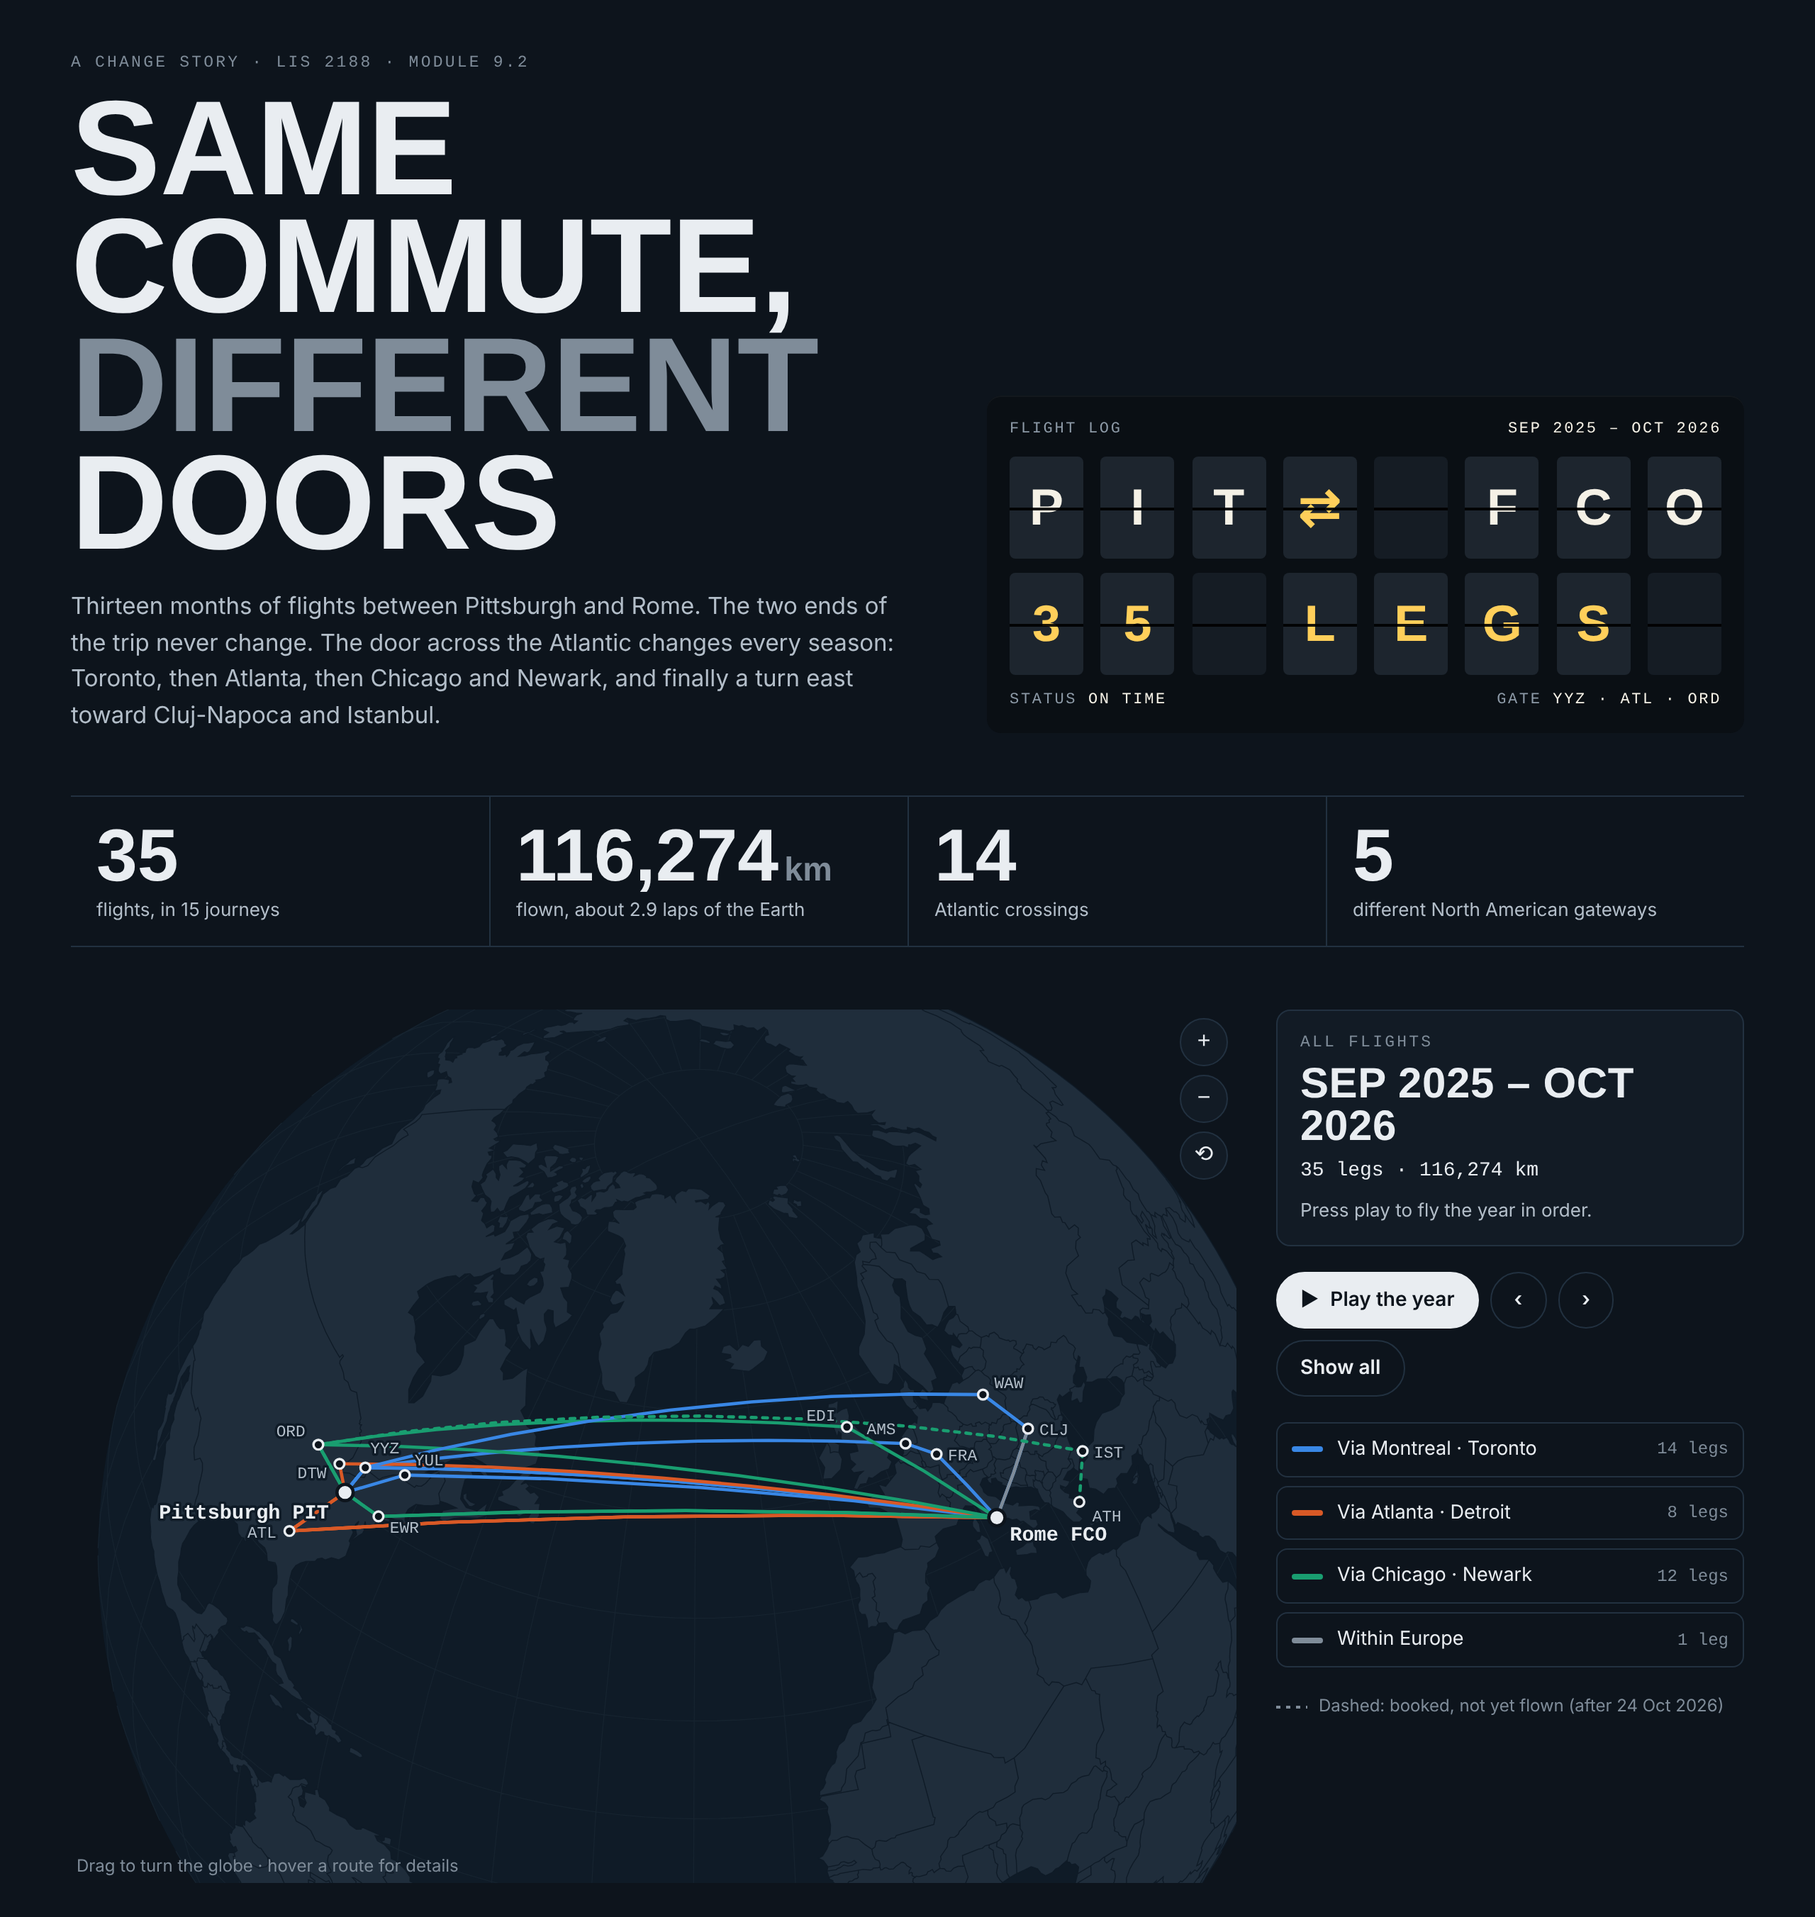
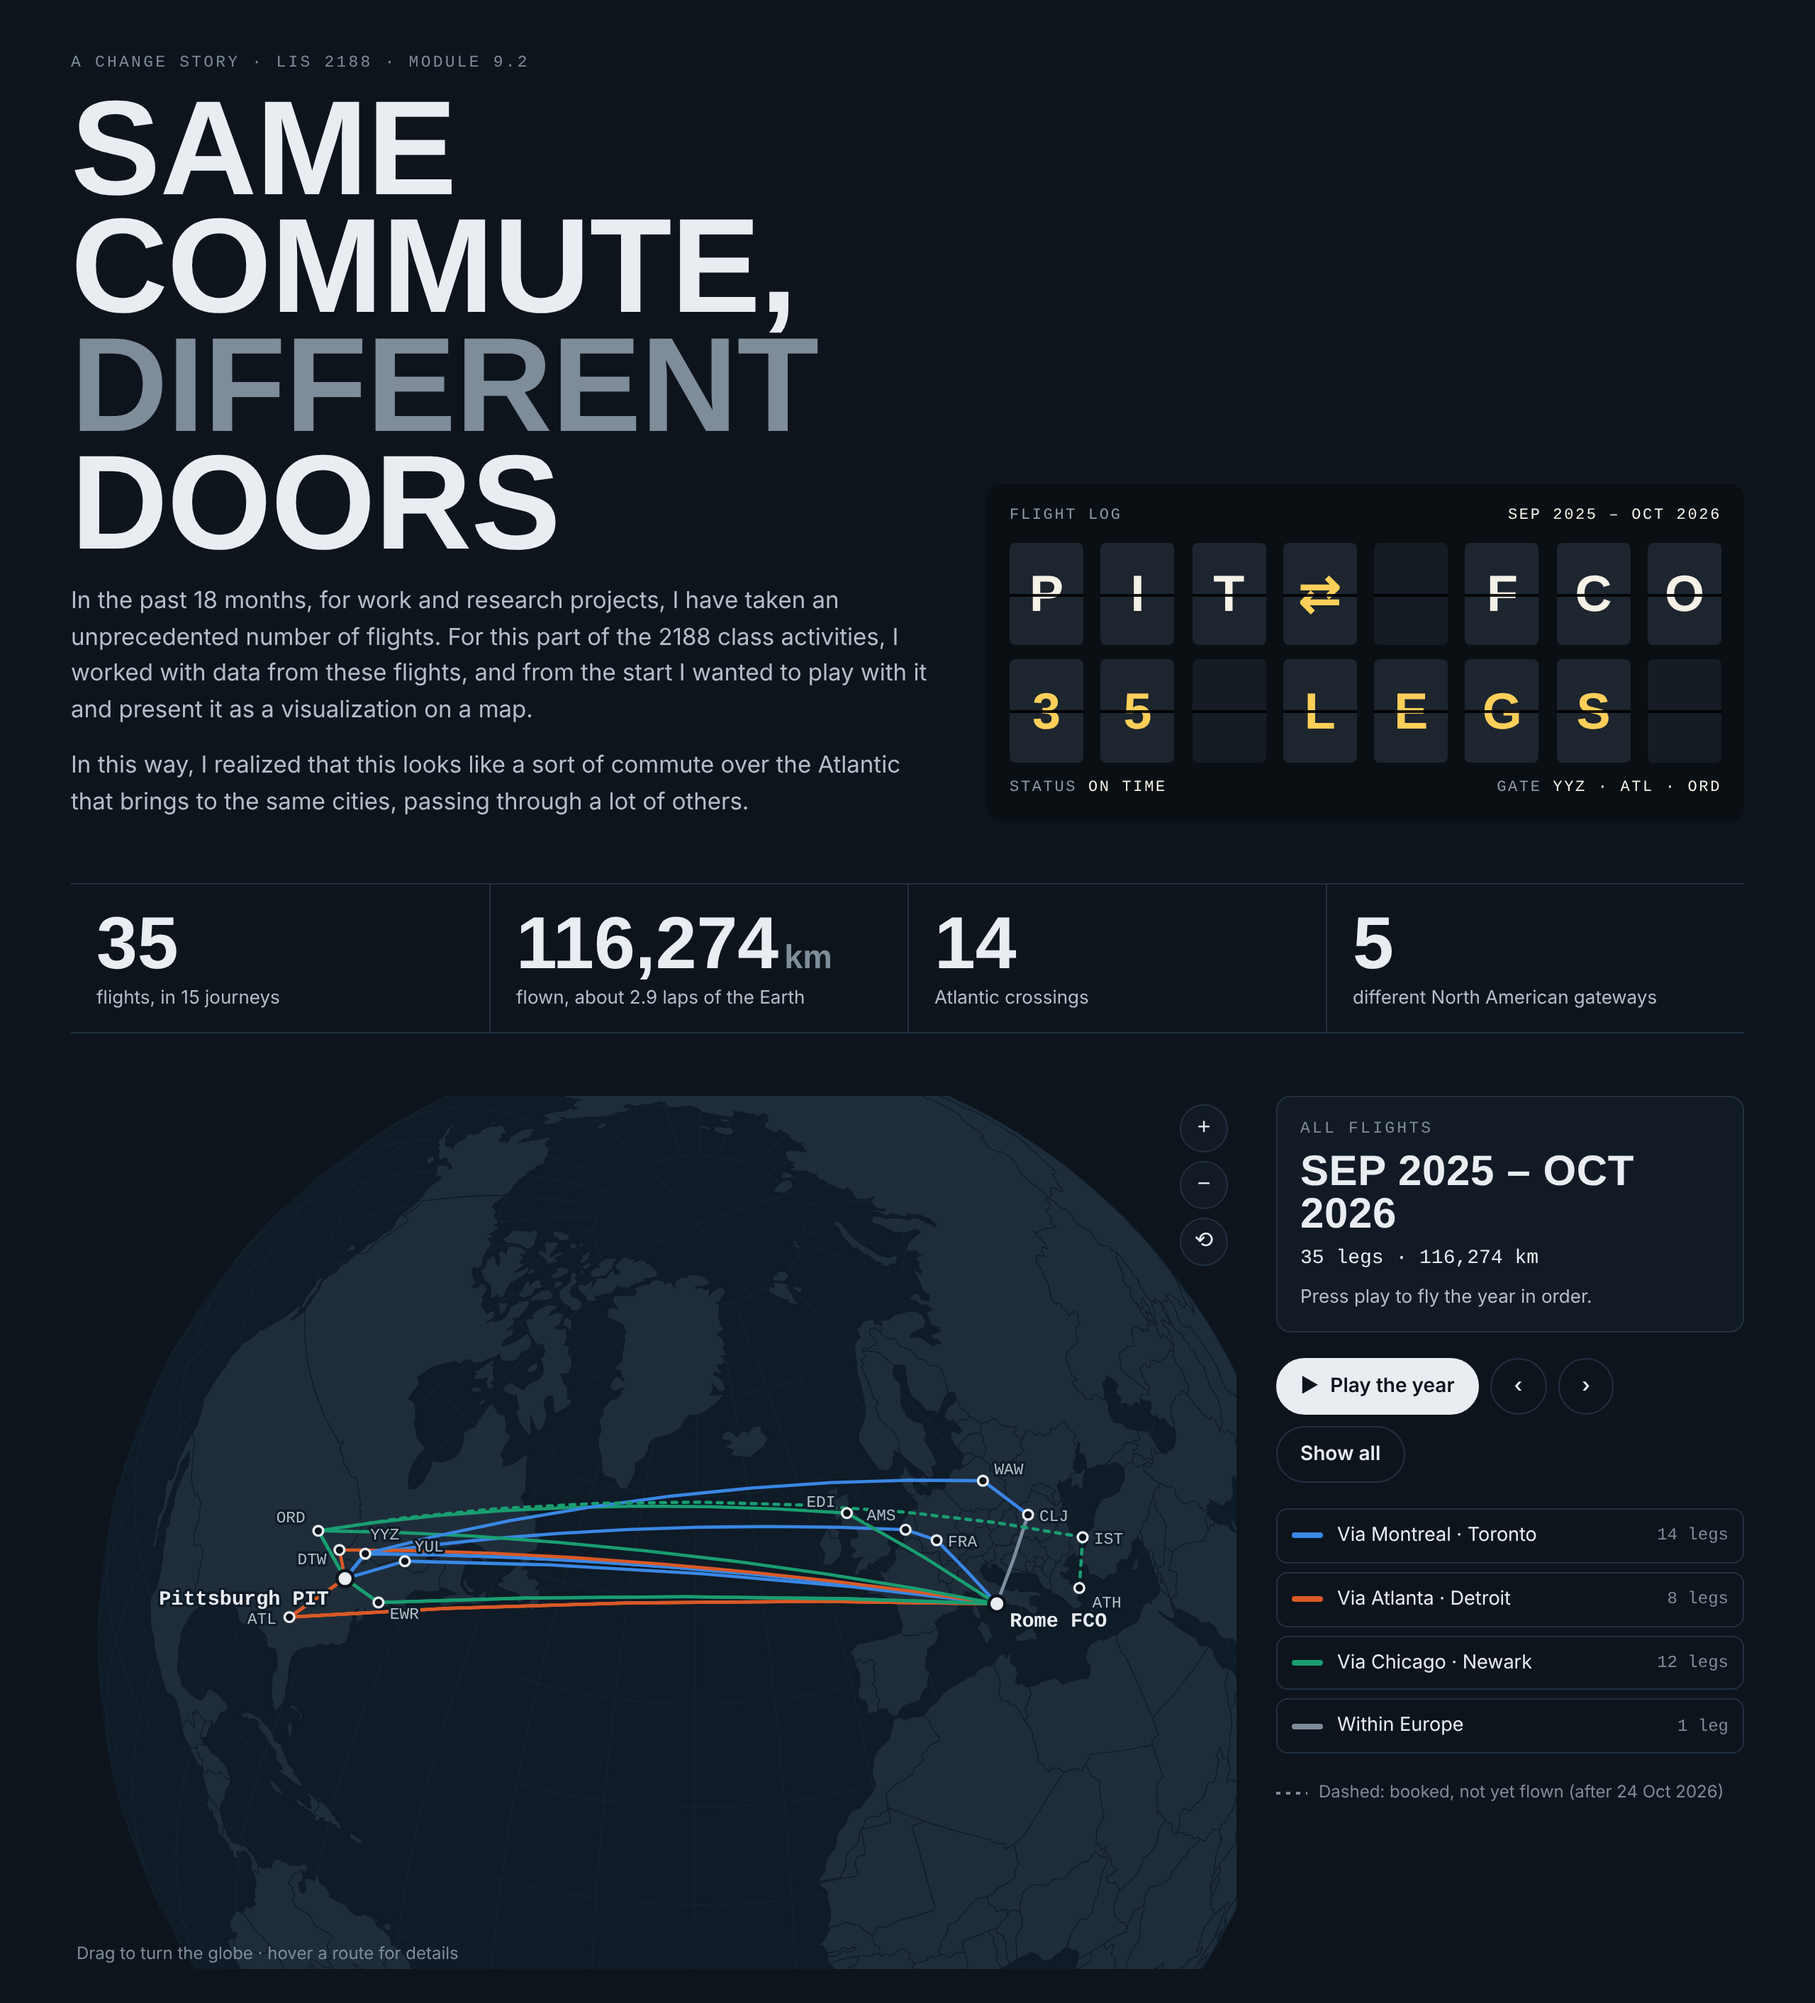
Replace intro text and remove the calendar section
Claude-Session: https://claude.ai/code/session_012EFSwt5ocAdmvY25BRuPxC

diff --git a/index.html b/index.html
@@ -19,7 +19,7 @@
 html{color-scheme:light}
 
 /* Layout: night-flight departure board on top, a live globe as the centrepiece,
-   then a timeline strip, a whereabouts calendar and a "reading the story" coda. */
+   then a timeline strip, season cards and a "reading the story" coda. */
 :root{
   --bg:#f3f5f7; --panel:#ffffff; --ink:#0e1620; --ink-2:#3d4a57; --muted:#6a7784; --rule:#d7dee5;
   --ocean:#e4ebf1; --land:#c4cfd9; --border-c:#f3f5f7; --grat:#d3dce4;
@@ -61,7 +61,7 @@ button{font:inherit;color:inherit}
 .hero{display:grid;grid-template-columns:minmax(0,1.15fr) minmax(0,1fr);gap:32px;align-items:end}
 .hero h1{font-family:var(--f-display);font-weight:900;font-size:clamp(46px,7.4vw,96px);line-height:.88;letter-spacing:-.005em;text-transform:uppercase;margin-top:10px}
 .hero h1 em{font-style:normal;color:var(--muted)}
-.dek{margin-top:18px;max-width:58ch;color:var(--ink-2);font-size:16.5px}
+.dek{margin-top:14px;max-width:58ch;color:var(--ink-2);font-size:16.5px}
 .board{background:var(--board);border-radius:10px;padding:16px 16px 14px;display:grid;gap:10px;box-shadow:0 1px 0 rgba(255,255,255,.04) inset}
 .board-row{display:flex;gap:4px;flex-wrap:nowrap;justify-content:space-between}
 .flap{position:relative;flex:1 1 0;min-width:0;aspect-ratio:.72;max-width:52px;background:#1d252e;border-radius:4px;display:grid;place-items:center;
@@ -145,25 +145,6 @@ h2{font-family:var(--f-display);font-weight:800;font-size:clamp(30px,3.6vw,42px)
 .chap .sws{display:flex;gap:4px}
 .chap .sws i{height:4px;flex:1;border-radius:2px}
 
-/* ---------- calendar ---------- */
-.cal-grid{display:grid;grid-template-columns:62px minmax(0,1fr);gap:4px 10px;align-items:center}
-.cal-m{font-family:var(--f-mono);font-size:11px;color:var(--muted);text-transform:uppercase;letter-spacing:.08em}
-.cal-row{display:grid;grid-template-columns:repeat(31,minmax(0,1fr));gap:2px}
-.day{aspect-ratio:1;border-radius:2px;position:relative;min-width:0}
-.day.out{background:transparent}
-.day.travel::after{content:"";position:absolute;inset:30%;border-radius:50%;background:var(--bg)}
-.day.planned{opacity:.55}
-.day.gap{background-image:repeating-linear-gradient(135deg,var(--p-gap) 0 2px,transparent 2px 5px)!important;background-color:transparent!important;outline:1px solid var(--p-gap);outline-offset:-1px}
-.day.today{box-shadow:0 0 0 1.5px var(--ink)}
-.cal-wrap{display:grid;grid-template-columns:minmax(0,1fr) 300px;gap:28px;align-items:start}
-.cal-legend{display:grid;gap:10px}
-.cl-item{display:grid;grid-template-columns:16px 1fr auto;gap:10px;align-items:center;font-size:14px}
-.cl-item .sq{width:16px;height:16px;border-radius:3px}
-.cl-item .n{font-family:var(--f-mono);font-variant-numeric:tabular-nums}
-.bar{display:flex;height:12px;border-radius:3px;overflow:hidden;gap:2px;margin-top:4px}
-.bar span{display:block;height:100%}
-.small{font-size:12.5px;color:var(--muted)}
-
 /* ---------- coda ---------- */
 .coda{display:grid;grid-template-columns:repeat(3,minmax(0,1fr));gap:28px;border-top:1px solid var(--rule);padding-top:26px}
 .coda h3{font-family:var(--f-mono);font-size:12px;letter-spacing:.14em;text-transform:uppercase;color:var(--muted);font-weight:500;margin-bottom:10px}
@@ -189,7 +170,6 @@ td.num{text-align:right;font-family:var(--f-mono);font-variant-numeric:tabular-n
   .hero{grid-template-columns:1fr}
   .stage{grid-template-columns:1fr}
   .chapters{grid-template-columns:repeat(2,minmax(0,1fr))}
-  .cal-wrap{grid-template-columns:1fr}
   .coda{grid-template-columns:1fr}
 }
 @media (max-width:560px){
@@ -197,8 +177,6 @@ td.num{text-align:right;font-family:var(--f-mono);font-variant-numeric:tabular-n
   .stat:nth-child(3){border-left:0}
   .stat:nth-child(n+3){border-top:1px solid var(--rule)}
   .chapters{grid-template-columns:1fr}
-  .cal-grid{grid-template-columns:44px minmax(0,1fr)}
-  .cal-row{gap:1px}
 }
 @media (prefers-reduced-motion:reduce){*{transition:none!important;animation:none!important}}
 </style>
@@ -211,7 +189,8 @@ td.num{text-align:right;font-family:var(--f-mono);font-variant-numeric:tabular-n
     <div>
       <div class="eyebrow">A change story · LIS 2188 · Module 9.2</div>
       <h1>Same commute,<br><em>different</em> doors</h1>
-      <p class="dek">Thirteen months of flights between Pittsburgh and Rome. The two ends of the trip never change. The door across the Atlantic changes every season: Toronto, then Atlanta, then Chicago and Newark, and finally a turn east toward Cluj-Napoca and Istanbul.</p>
+      <p class="dek">In the past 18 months, for work and research projects, I have taken an unprecedented number of flights. For this part of the 2188 class activities, I worked with data from these flights, and from the start I wanted to play with it and present it as a visualization on a map.</p>
+      <p class="dek">In this way, I realized that this looks like a sort of commute over the Atlantic that brings to the same cities, passing through a lot of others.</p>
     </div>
     <div class="board" aria-label="Departure board: Pittsburgh to Rome">
       <div class="board-meta"><span>Flight log</span><span><b>Sep 2025 – Oct 2026</b></span></div>
@@ -270,18 +249,6 @@ td.num{text-align:right;font-family:var(--f-mono);font-variant-numeric:tabular-n
     <div class="chapters" id="chapters"></div>
   </section>
 
-  <section>
-    <div class="sec-head">
-      <span class="eyebrow">The near view</span>
-      <h2>Where the days went</h2>
-      <p>Distance is the far view. This is the near one: every day from the first flight to the last, coloured by where the night was spent according to the log. A dot marks a travel day.</p>
-    </div>
-    <div class="cal-wrap">
-      <div class="cal-grid" id="cal"></div>
-      <div class="cal-legend" id="calLegend"></div>
-    </div>
-  </section>
-
   <section class="coda" aria-label="About this data story">
     <div>
       <h3>The essential questions</h3>
@@ -291,14 +258,14 @@ td.num{text-align:right;font-family:var(--f-mono);font-variant-numeric:tabular-n
         <dt>What</dt><dd>A personal flight log: 35 legs, airports, carriers and coordinates.</dd>
         <dt>When</dt><dd>9 Sep 2025 to 31 Oct 2026.</dd>
         <dt>Where</dt><dd>Pittsburgh and Rome, with 13 other airports in between.</dd>
-        <dt>How</dt><dd>Great-circle arcs on a globe, a timeline and a day-by-day calendar.</dd>
+        <dt>How</dt><dd>Great-circle arcs on a globe, a timeline and four season cards.</dd>
       </dl>
     </div>
     <div>
       <h3>What the data cannot tell</h3>
       <ul>
         <li>Why each route was chosen: price, schedule, loyalty programme or a specific trip purpose.</li>
-        <li>How Cluj-Napoca (5 Oct) connects to Athens (28 Oct). That leg is missing, so those days are hatched.</li>
+        <li>How Cluj-Napoca (5 Oct) connects to Athens (28 Oct). That leg is missing from the log.</li>
         <li>Departure times, delays, ground travel and layover length.</li>
         <li>Distances are straight great-circle lines, not the paths the aircraft flew.</li>
         <li>Emissions: no CO₂ figure is shown, because cabin class and aircraft type are not in the log.</li>
@@ -561,45 +528,6 @@ const chaps=d3.select("#chapters").selectAll("button").data(CH).join("button").a
    tweenView([-ctr[0],-ctr[1]*0.85,0],home.scale*1.12,800);
    document.querySelector(".stage").scrollIntoView({behavior:reduce?"auto":"smooth",block:"start"});
  });
-
-// ---- calendar (whereabouts)
-const start=parse("2025-09-09"), end=parse("2026-10-31");
-const byDate=d3.group(legs,l=>l.date);
-let loc="PIT", lastArr=null; const days=[];
-const dk=d3.utcFormat("%Y-%m-%d");
-// find gap: a leg whose origin differs from current location
-let gapFrom=null,gapTo=null; {let c="PIT",prevD=null;legs.forEach(l=>{if(l.from!==c){gapFrom=d3.utcDay.offset(prevD,1);gapTo=d3.utcDay.offset(l.d,-1);}c=l.to;prevD=l.d;});}
-for(let d=start;d<=end;d=d3.utcDay.offset(d,1)){
-  const k=dk(d), todays=byDate.get(k)||[];
-  if(todays.length)loc=todays[todays.length-1].to;
-  const gap=gapFrom&&d>=gapFrom&&d<=gapTo;
-  const cat=gap?"gap":loc==="PIT"?"pit":loc==="FCO"?"rome":"else";
-  days.push({d,k,cat,loc,travel:todays.length>0,legs:todays,planned:k>TODAY});
-}
-const CAT={pit:{l:"Pittsburgh",v:"--p-pit"},rome:{l:"Rome",v:"--p-rome"},else:{l:"Elsewhere (Toronto, Amsterdam, Edinburgh, Cluj-Napoca…)",v:"--p-else"},gap:{l:"Not in the log",v:"--p-gap"}};
-const months=d3.utcMonths(d3.utcMonth.floor(start),d3.utcMonth.offset(d3.utcMonth.floor(end),1));
-const cal=d3.select("#cal");
-months.forEach(mo=>{
-  cal.append("div").attr("class","cal-m").text(d3.utcFormat("%b %y")(mo));
-  const row=cal.append("div").attr("class","cal-row");
-  for(let i=1;i<=31;i++){
-    const dd=new Date(Date.UTC(mo.getUTCFullYear(),mo.getUTCMonth(),i));
-    const rec=dd.getUTCMonth()===mo.getUTCMonth()?days.find(x=>x.k===dk(dd)):null;
-    const cell=row.append("div").attr("class","day"+(rec?"":" out"));
-    if(rec){cell.classed("travel",rec.travel).classed("planned",rec.planned).classed("gap",rec.cat==="gap").classed("today",rec.k===TODAY)
-      .style("background",`var(${CAT[rec.cat].v})`)
-      .on("pointermove",e=>{tip.hidden=false;const nm=apMap.get(rec.loc);
-        tip.innerHTML=`<b>${fDay(rec.d)}</b>${rec.planned?' <span class="s">· booked</span>':""}<br>${rec.cat==="gap"?"Not recorded (last seen Cluj-Napoca)":"Night in "+(nm?nm.city:rec.loc)}${rec.legs.length?'<br><span class="s">'+rec.legs.map(l=>l.from+"→"+l.to+" "+l.no).join(", ")+"</span>":""}`;
-        tip.style.left=Math.min(e.clientX+14,innerWidth-tip.offsetWidth-8)+"px";tip.style.top=Math.min(e.clientY+14,innerHeight-tip.offsetHeight-8)+"px";})
-      .on("pointerleave",hideTip);}
-  }
-});
-const counts=d3.rollup(days,v=>v.length,d=>d.cat), tot=days.length;
-const cl=d3.select("#calLegend");
-cl.append("div").attr("class","eyebrow").text(`${tot} days, 9 Sep 2025 – 31 Oct 2026`);
-cl.append("div").attr("class","bar").html(["pit","rome","else","gap"].map(k=>`<span style="width:${(counts.get(k)||0)/tot*100}%;background:var(${CAT[k].v})"></span>`).join(""));
-["pit","rome","else","gap"].forEach(k=>cl.append("div").attr("class","cl-item").html(`<span class="sq" style="background:var(${CAT[k].v})${k==="gap"?";background:repeating-linear-gradient(135deg,var(--p-gap) 0 2px,transparent 2px 5px);outline:1px solid var(--p-gap);outline-offset:-1px":""}"></span><span>${CAT[k].l}</span><span class="n">${counts.get(k)||0} d · ${Math.round((counts.get(k)||0)/tot*100)}%</span>`));
-cl.append("p").attr("class","small").html(`Dot = a day with at least one flight (${days.filter(d=>d.travel).length} days). Faded cells after 24 Oct are booked, not lived. Pittsburgh is the base: ${Math.round(counts.get("pit")/tot*100)}% of nights. Rome comes in stays of one to three weeks. The hatched block is the missing Cluj-Napoca → Athens link.`);
 
 // ---- table
 d3.select("#tbl tbody").selectAll("tr").data(legs).join("tr").html(l=>`<td class="mono">${l.date}${l.planned?" *":""}</td><td>${l.fromCity} (${l.from})</td><td>${l.toCity} (${l.to})</td><td class="mono">${l.no}</td><td>${l.carrier}</td><td>${GW[l.gw].label}</td><td class="num">${fmt(l.km)}</td>`);

diff --git a/README.md b/README.md
@@ -16,18 +16,16 @@ Made for **LIS 2188, Module 9.2: Telling Stories with Data**.
 
 | Path | Contents |
 |---|---|
-| `index.html` | The interactive page: globe with playback, timeline, four route seasons, whereabouts calendar, data table |
+| `index.html` | The interactive page: globe with playback, timeline, four route seasons, data table |
 | `data/Flights_DataTable_Rev.xlsx` | Original flight log (35 rows) |
 | `data/flights.csv`, `data/flights.json` | Same data plus a `km` column (great-circle distance, haversine formula) |
-| `images/` | Static images for sharing |
-
-![Where the days went](images/where-the-days-went.png)
+| `images/` | Static image for sharing |
 
 ## Method and limits
 
 - Journeys are consecutive legs that end in Pittsburgh or Rome. Each journey is coloured by the North American airport it passes through.
 - Distances are straight great-circle lines between airports, not the paths the aircraft actually flew.
-- The log has no link between Cluj-Napoca (5 Oct 2026) and Athens (28 Oct 2026), so those days show as "not in the log".
+- The log has no link between Cluj-Napoca (5 Oct 2026) and Athens (28 Oct 2026), and that gap is noted on the page.
 - The last three flights (28–31 Oct 2026) were still bookings when the page was made.
 - No emissions figure is given, because cabin class and aircraft type aren't recorded.
 
